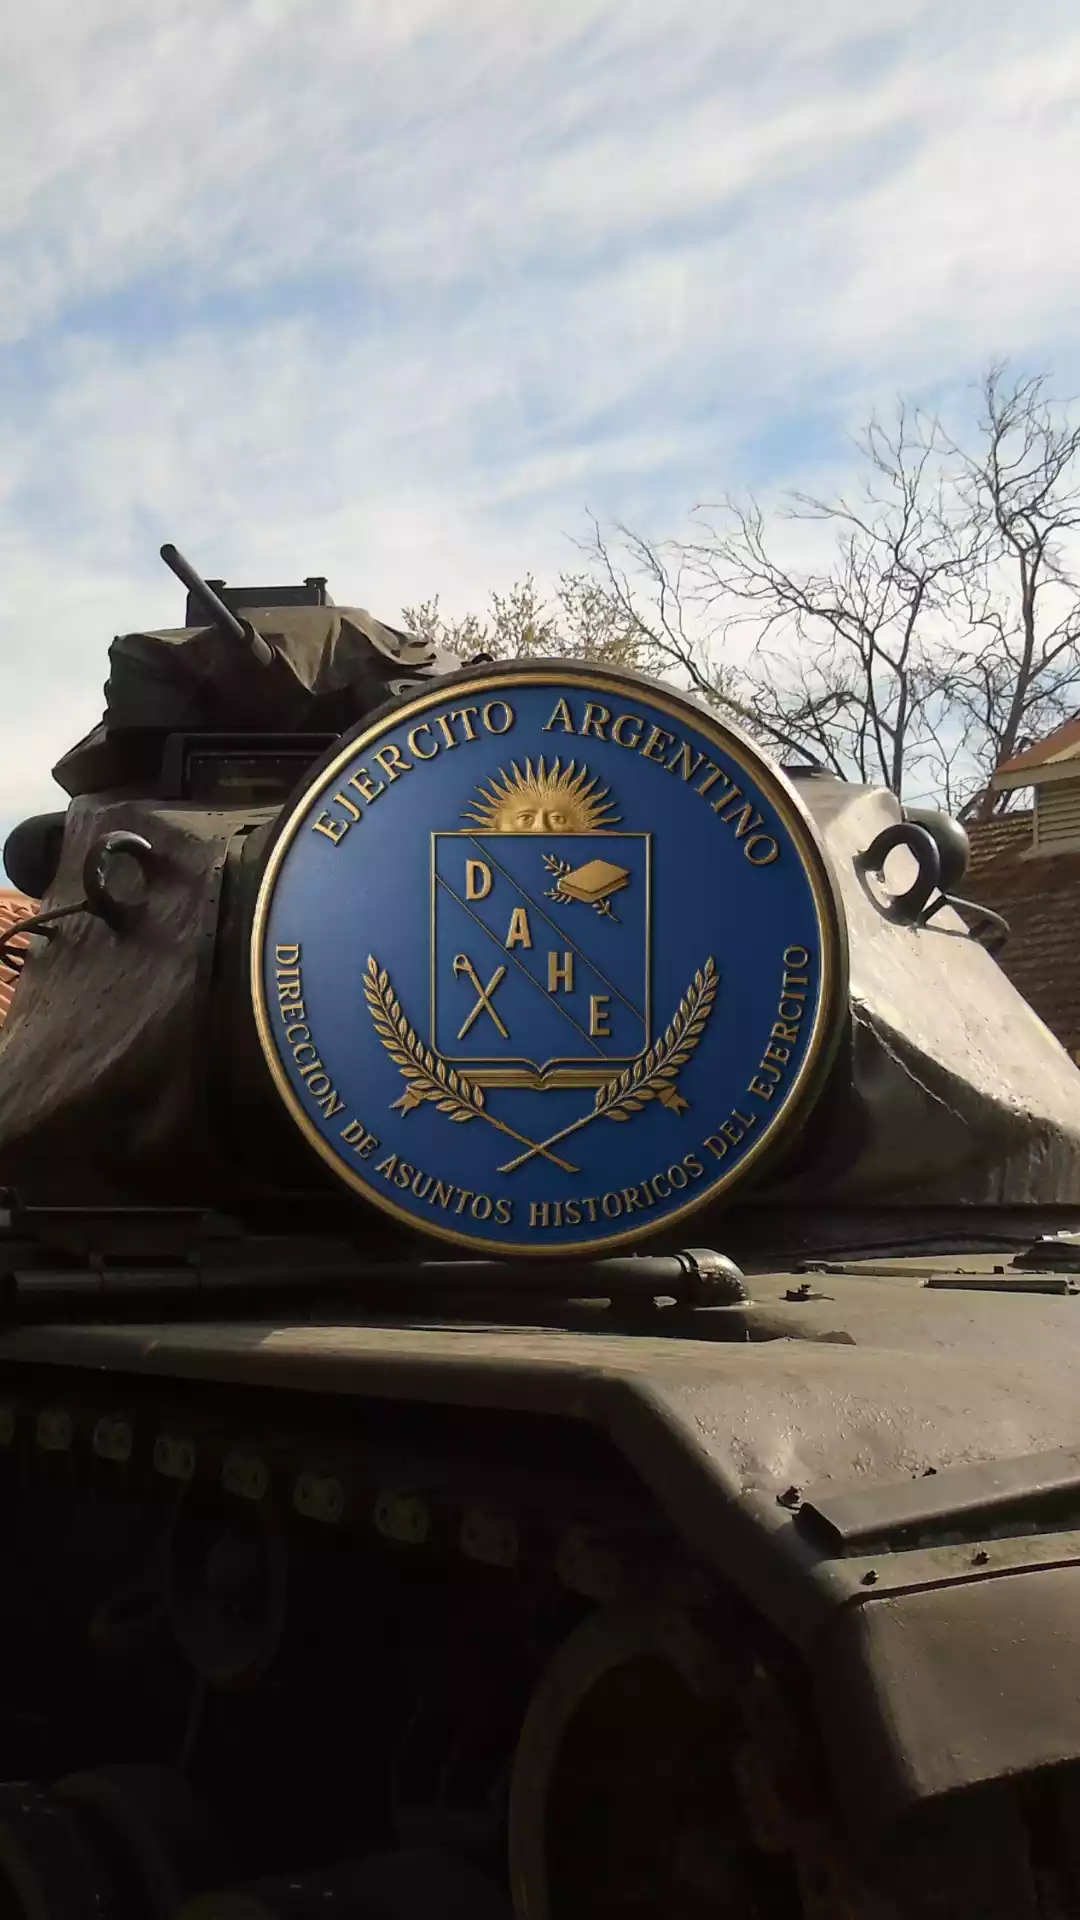
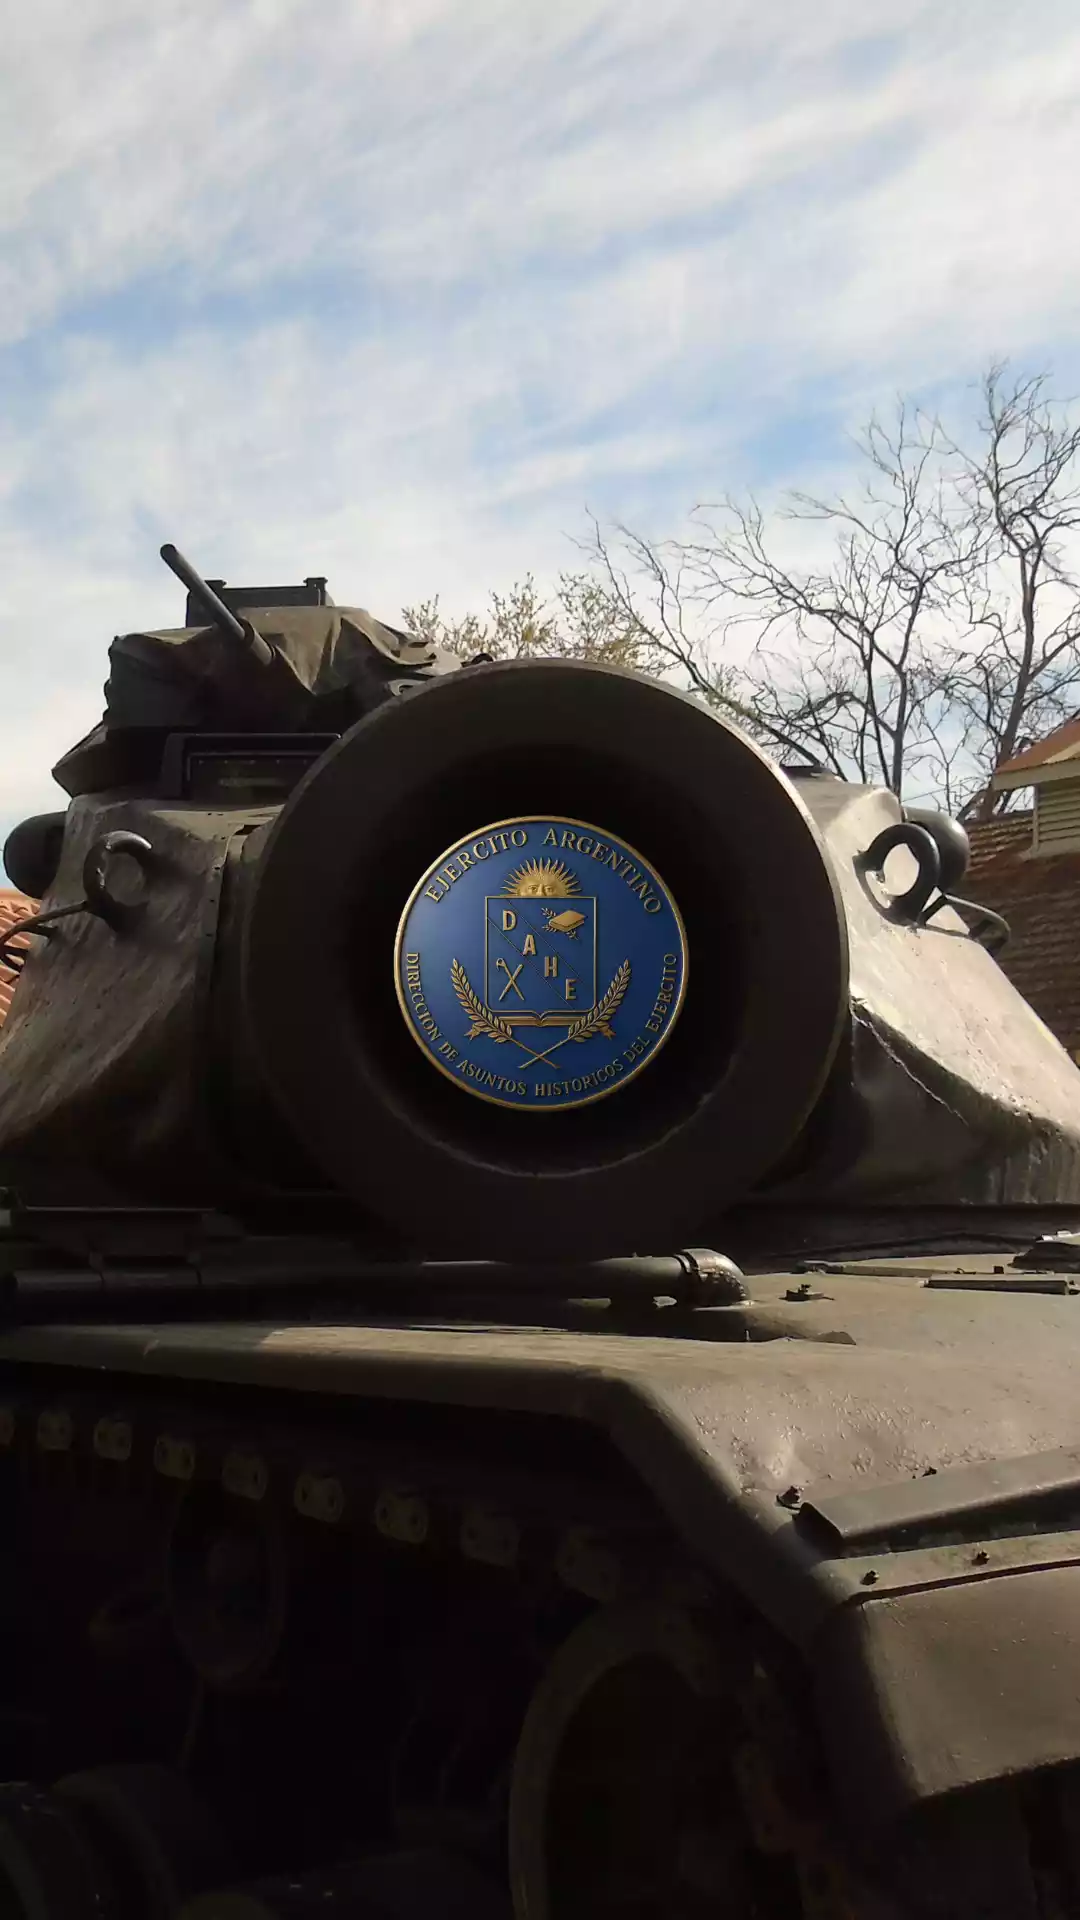
PRUEBA 4

Changed region(s): [[0.2139, 0.3438, 0.7944, 0.6562]]

diff --git a/index.html b/index.html
@@ -20,6 +20,8 @@
         <img src="./multimedia/3.webp" id="background2" alt="Fondo" class="cell">
         <img src="./multimedia/2.webp" id="circle" alt="Círculo" class="pc">
         <img src="./multimedia/4.webp" id="circle" alt="Círculo" class="cell">
+        <img src="./multimedia/dahe.webp"  alt="Círculo" class="circulo-cell">
+
         <h1 id="title">BIENVENIDOS</h1>
 
         <!-- Flecha -->

diff --git a/styles/scss/styles.css b/styles/scss/styles.css
@@ -146,10 +146,16 @@ section {
     font-size: 5rem;
   }
 }
-
+.circulo-cell{
+  width: 90px;
+  height: auto;
+  position: fixed;
+  align-items: center;
+  z-index: 4;
+}
 .arrow-down {
   position: absolute;
-  bottom: 30px;
+  bottom: 3dvh;
   left: 50%;
   transform: translateX(-50%);
   font-size: 3rem;
